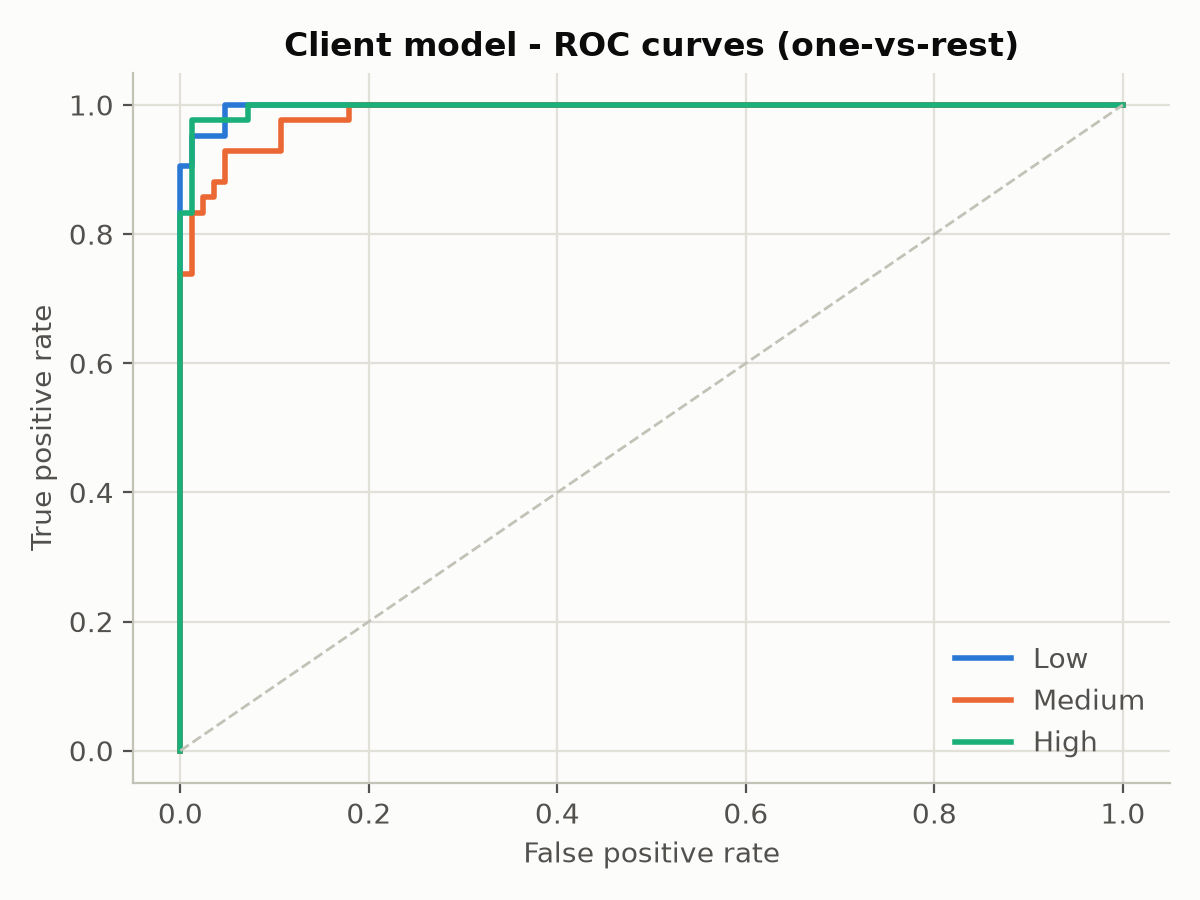
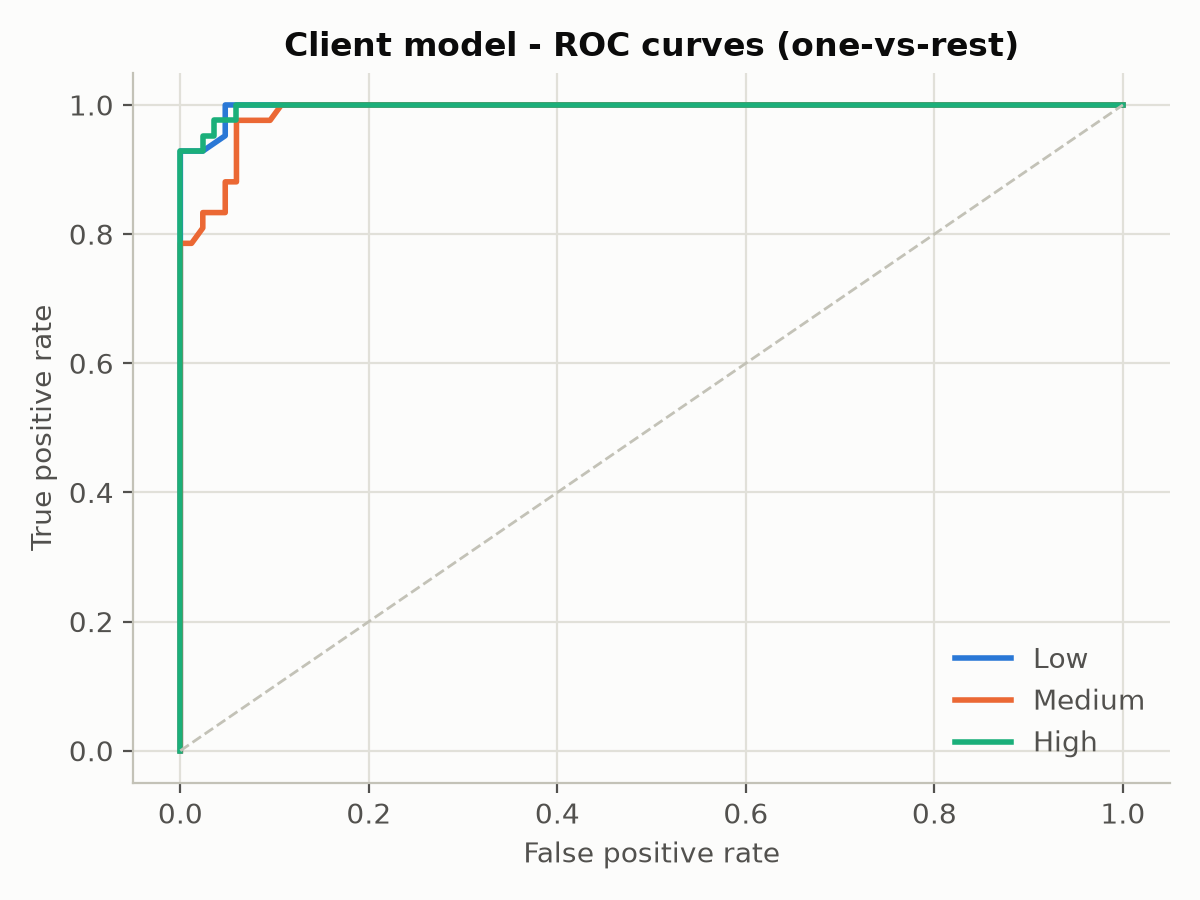
fix: Use dispute/refund rate instead of raw count + volume as model features

Changed region(s): [[0.1233, 0.0933, 0.3083, 0.3111]]

diff --git a/trust-scoring-ml/src/train.py b/trust-scoring-ml/src/train.py
@@ -6,18 +6,21 @@ import pandas as pd
 from sklearn.ensemble import RandomForestClassifier
 from sklearn.model_selection import train_test_split
 
-from src.feature_engineering import add_client_trust_label, add_worker_trust_label
+from src.feature_engineering import (
+    add_client_rate_features,
+    add_client_trust_label,
+    add_worker_rate_features,
+    add_worker_trust_label,
+)
 from src.model_io import save_model
 
 MODEL_VERSION = "v1"
 
-WORKER_FEATURE_COLUMNS = ["job_completion_rate", "dispute_count", "response_time_hours", "total_jobs"]
-CLIENT_FEATURE_COLUMNS = [
-    "payment_completion_rate",
-    "escrow_release_time_hours",
-    "refund_requests",
-    "total_jobs_paid",
-]
+# Rates rather than raw counts/volume: trust_level itself is derived from these same
+# rates (see feature_engineering.add_trust_label), and a raw count/volume pair makes
+# predictions unstable when total_jobs falls outside the training range (see #64).
+WORKER_FEATURE_COLUMNS = ["job_completion_rate", "dispute_rate", "response_time_hours"]
+CLIENT_FEATURE_COLUMNS = ["payment_completion_rate", "refund_rate", "escrow_release_time_hours"]
 
 
 def train_random_forest(dataset, feature_columns, label_col="trust_level", test_size=0.2, random_state=42):
@@ -37,13 +40,13 @@ def train_random_forest(dataset, feature_columns, label_col="trust_level", test_
 
 def train_worker_model(worker_dataset, test_size=0.2, random_state=42):
     """Label and train the worker trust-scoring model."""
-    labeled = add_worker_trust_label(worker_dataset)
+    labeled = add_worker_rate_features(add_worker_trust_label(worker_dataset))
     return train_random_forest(labeled, WORKER_FEATURE_COLUMNS, test_size=test_size, random_state=random_state)
 
 
 def train_client_model(client_dataset, test_size=0.2, random_state=42):
     """Label and train the client trust-scoring model."""
-    labeled = add_client_trust_label(client_dataset)
+    labeled = add_client_rate_features(add_client_trust_label(client_dataset))
     return train_random_forest(labeled, CLIENT_FEATURE_COLUMNS, test_size=test_size, random_state=random_state)
 
 

diff --git a/trust-scoring-ml/src/feature_engineering.py b/trust-scoring-ml/src/feature_engineering.py
@@ -134,3 +134,19 @@ def add_client_trust_label(client_dataset):
         time_col="escrow_release_time_hours",
         total_col="total_jobs_paid",
     )
+
+
+def add_worker_rate_features(worker_dataset):
+    """Add dispute_rate (dispute_count / total_jobs) so models see a scale-invariant
+    rate instead of a raw count that depends on job volume."""
+    df = worker_dataset.copy()
+    df["dispute_rate"] = df["dispute_count"] / df["total_jobs"]
+    return df
+
+
+def add_client_rate_features(client_dataset):
+    """Add refund_rate (refund_requests / total_jobs_paid) so models see a scale-invariant
+    rate instead of a raw count that depends on job volume."""
+    df = client_dataset.copy()
+    df["refund_rate"] = df["refund_requests"] / df["total_jobs_paid"]
+    return df
